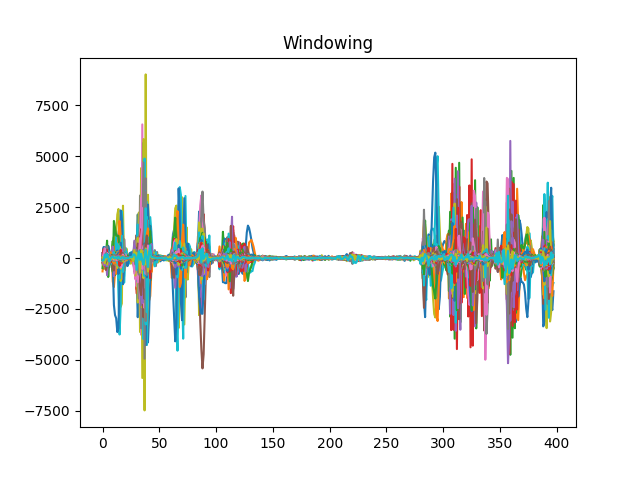
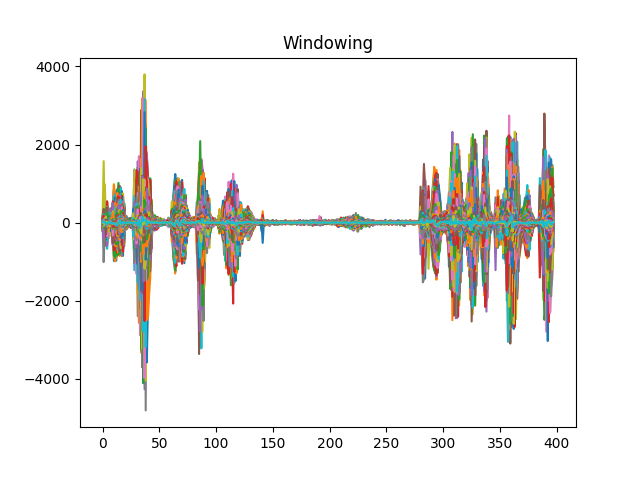
fix bug

diff --git a/Homework1-Speech Signal Processing (MFCC)/Speech Signal Processing (MFCC).py b/Homework1-Speech Signal Processing (MFCC)/Speech Signal Processing (MFCC).py
@@ -12,11 +12,10 @@ import matplotlib.pylab as plt
 from scipy.fftpack import dct
 
 # import and show signal 导入
-sample_rate, signal = scipy.io.wavfile.read('OSR_us_000_0010_8k.wav')  # File assumed to be in the same directory
+sample_rate, signal = scipy.io.wavfile.read('OSR_us_000_0010_8k.wav')
 print("sample rate : " + str(sample_rate))
 signal = signal[int(5 * sample_rate):int(9 * sample_rate)]  # 截取中间段声音
-c1 = dct(signal, type=2, axis=-1, norm='ortho')
-plt.plot(c1)
+plt.plot(signal)
 plt.title('import and show signal', fontsize=12, color='black')
 plt.savefig(f'./out/output1_import and show signal.png')
 plt.show()
@@ -25,8 +24,7 @@ plt.show()
 pre_emphasis = 0.97
 # 这个步骤在群里有讨论过 那么按照网上的来做的话将0位置保留 其余进行预处理
 emphasized_signal = np.append(signal[0], signal[1:] - pre_emphasis * signal[:-1])
-c2 = dct(emphasized_signal, type=2, axis=-1, norm='ortho')
-plt.plot(c2)
+plt.plot(emphasized_signal)
 plt.title('Pre-Emphasis', fontsize=12, color='black')
 plt.savefig(f'./out/output2_Pre-Emphasis.png')
 plt.show()
@@ -45,8 +43,7 @@ indices = np.tile(np.arange(0, frame_length), (num_frames, 1)) + np.tile(
     np.arange(0, num_frames * frame_step, frame_step), (frame_length, 1)).T
 frames = pad_signal[indices.astype(np.int32, copy=False)]
 
-c3 = dct(frames, type=2, axis=-1, norm='ortho')
-plt.plot(c3)
+plt.plot(frames)
 plt.title('Frames', fontsize=12, color='black')
 plt.savefig(f'./out/output3_Frames.png')
 plt.show()
@@ -54,8 +51,7 @@ plt.show()
 # Windowing 加窗
 # Hamming Window
 frames *= np.hamming(frame_length)
-c4 = dct(frames, type=2, axis=-1, norm='ortho')
-plt.plot(c4)
+plt.plot(frames)
 plt.title('Windowing', fontsize=12, color='black')
 plt.savefig(f'./out/output4_Windowing.png')
 plt.show()
@@ -64,8 +60,7 @@ plt.show()
 NFFT = 512
 mag_frames = np.absolute(np.fft.rfft(frames, NFFT))  # Magnitude of the FFT
 pow_frames = ((1.0 / NFFT) * ((mag_frames) ** 2))  # Power Spectrum
-c5 = dct(pow_frames, type=2, axis=-1, norm='ortho')
-plt.plot(c5)
+plt.plot(pow_frames)
 plt.title('DFT', fontsize=12, color='black')
 plt.savefig(f'./out/output5_DFT.png')
 plt.show()
@@ -89,13 +84,13 @@ for m in range(1, nfilt + 1):
     for k in range(f_m, f_m_plus):
         fbank[m - 1, k] = (bin[m + 1] - k) / (bin[m + 1] - bin[m])
 filter_banks = np.dot(pow_frames, fbank.T)
-filter_banks = np.where(filter_banks == 0, np.finfo(float).eps, filter_banks)  # Numerical Stability
-filter_banks = 20 * np.log10(filter_banks)  # dB
+filter_banks = np.where(filter_banks == 0, np.finfo(float).eps, filter_banks)
+filter_banks = 20 * np.log10(filter_banks)
 
 # Final Show
 num_ceps = 12
-c11 = dct(filter_banks, type=2, axis=-1, norm='ortho')[1: (num_ceps + 1)]  # Keep 2-13
-plt.plot(c11)
+c1 = dct(filter_banks, type=2, axis=-1, norm='ortho')[1: (num_ceps + 1)]
+plt.plot(c1)
 plt.title('final1', fontsize=12, color='black')
 plt.savefig(f'./out/output6_final1.png')
 plt.show()
